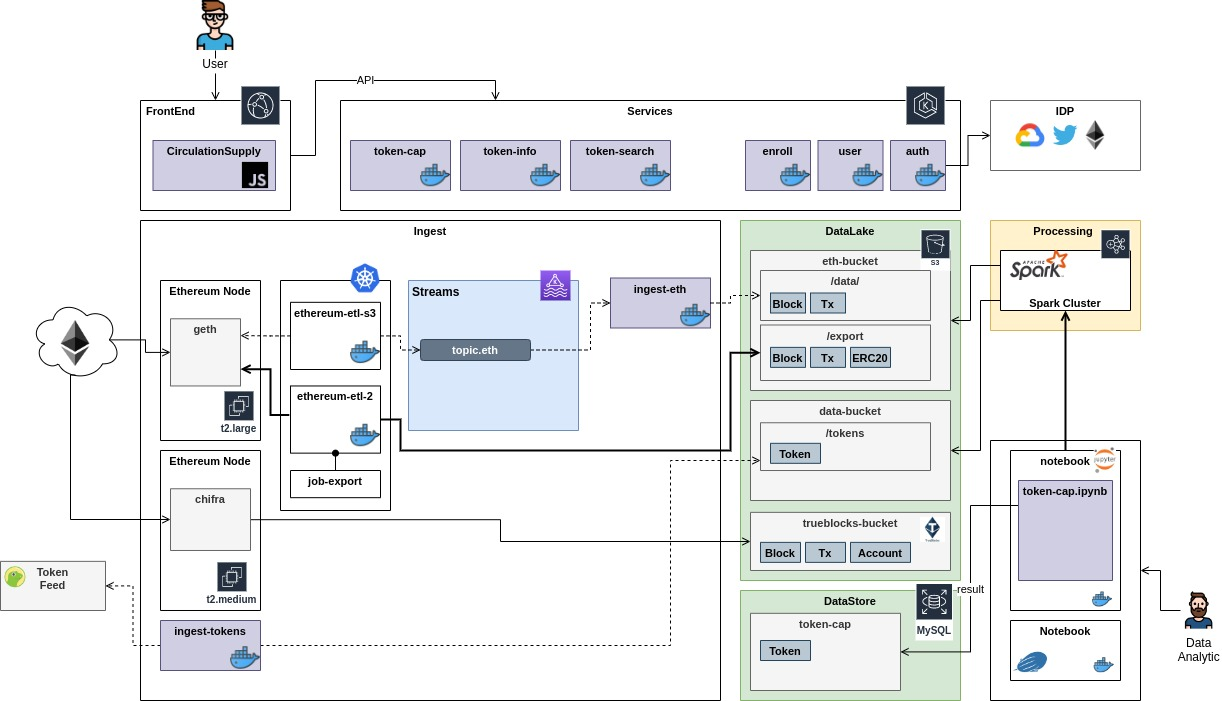
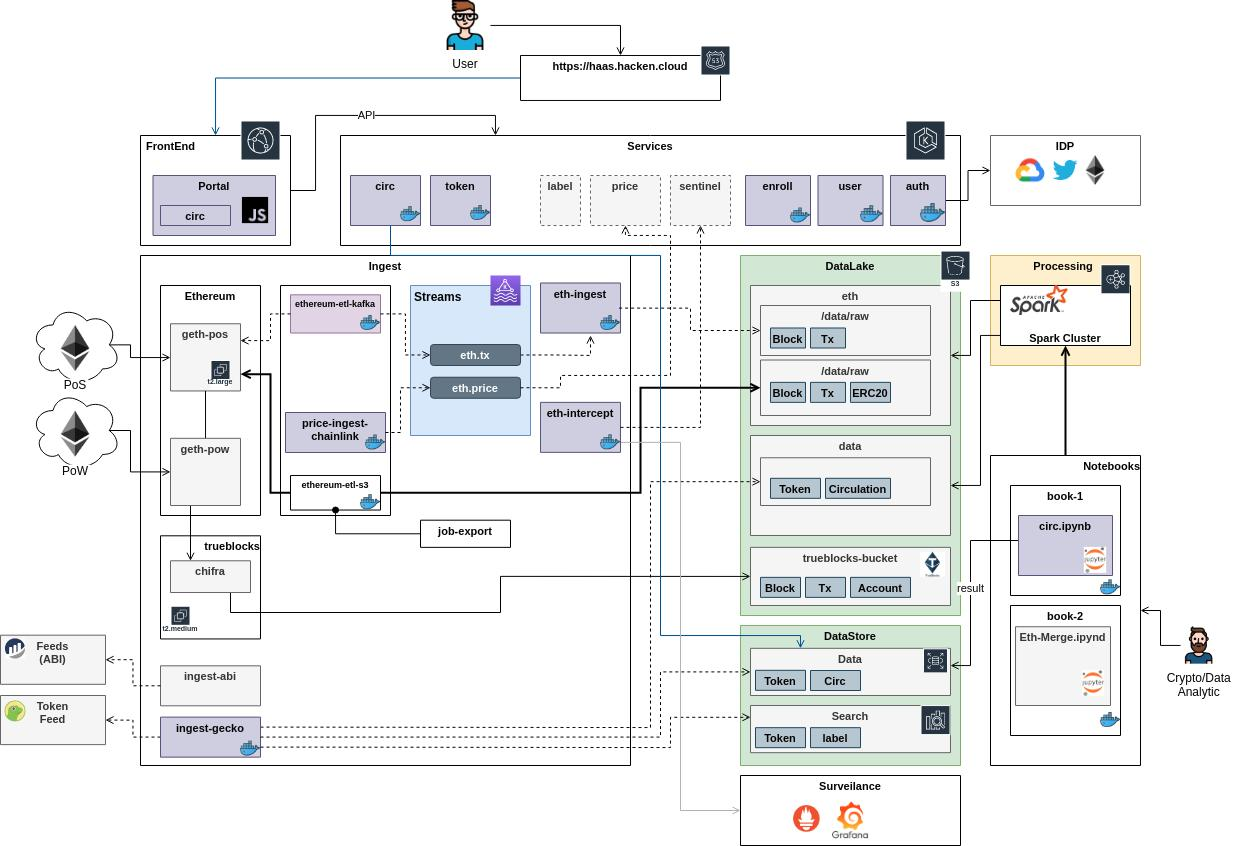
Update arch

Changed region(s): [[0.0, 0.0, 1.0, 1.0], [0.4354, 0.03, 0.5908, 0.1198]]

diff --git a/README.md b/README.md
@@ -1,6 +1,15 @@
 # haas-demo
 
-Proto 
+HaaS Platform Demo 
+
+## Modules
+
+- [haas-core](haas-core)        - Core Entities and Utils
+- [haas-token](haas-token)      - Tokens Service (CRUD,Search)
+- [haas-ingest](haas-ingest)    - Ingest (blockchains, feeds)
+- [haas-lake](haas-lake)        - DataLake
+- [haas-circ](haas-circ)        - Circulation Product
+
 
 ----
 ## Architecture

diff --git a/haas-circ/README.md b/haas-circ/README.md
@@ -1,0 +1,16 @@
+# Circulation Supply Product
+
+Business Service on HaaS Platform
+
+## Modules
+
+- [circ-core](circ-core)            - Core Entities
+- [circ-harvest](circ-harvest)      - Notebooks and Processing Pipelines!
+- [circ-service](circ-service)      - API 
+
+
+----
+## Architecture
+
+<img src="doc/_.jpg" width="650" alt="TODO: Add Diagram">
+
